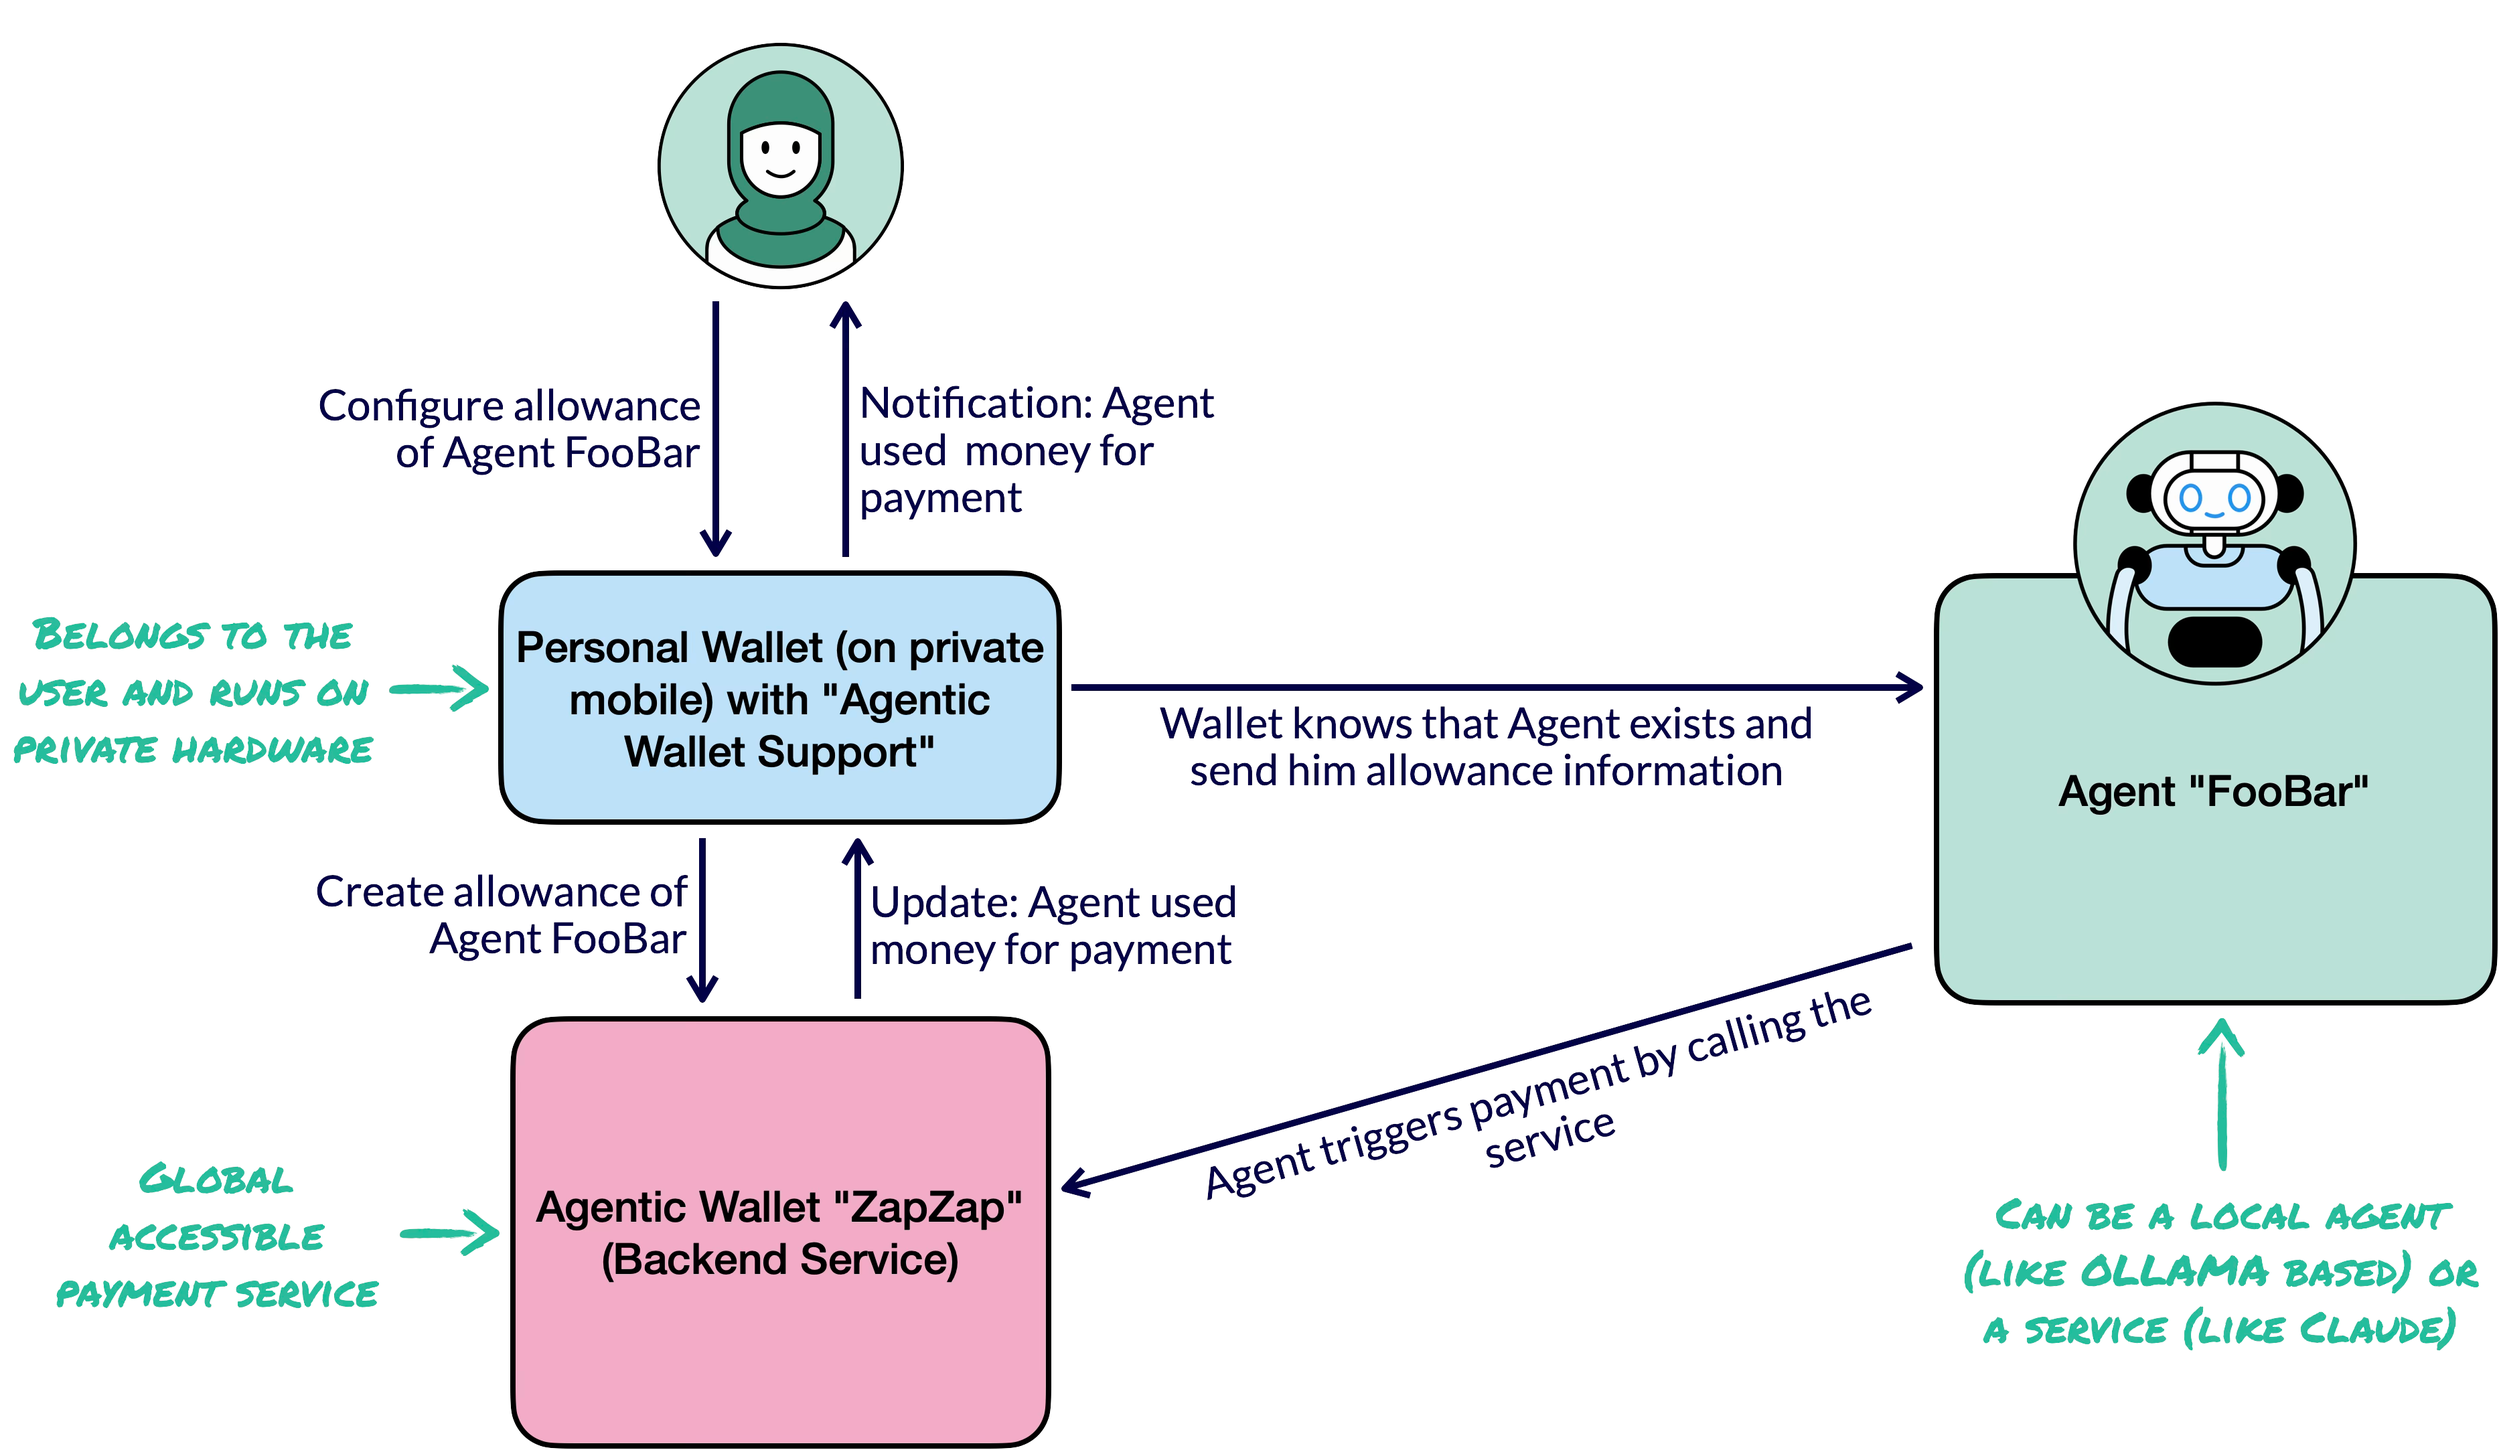
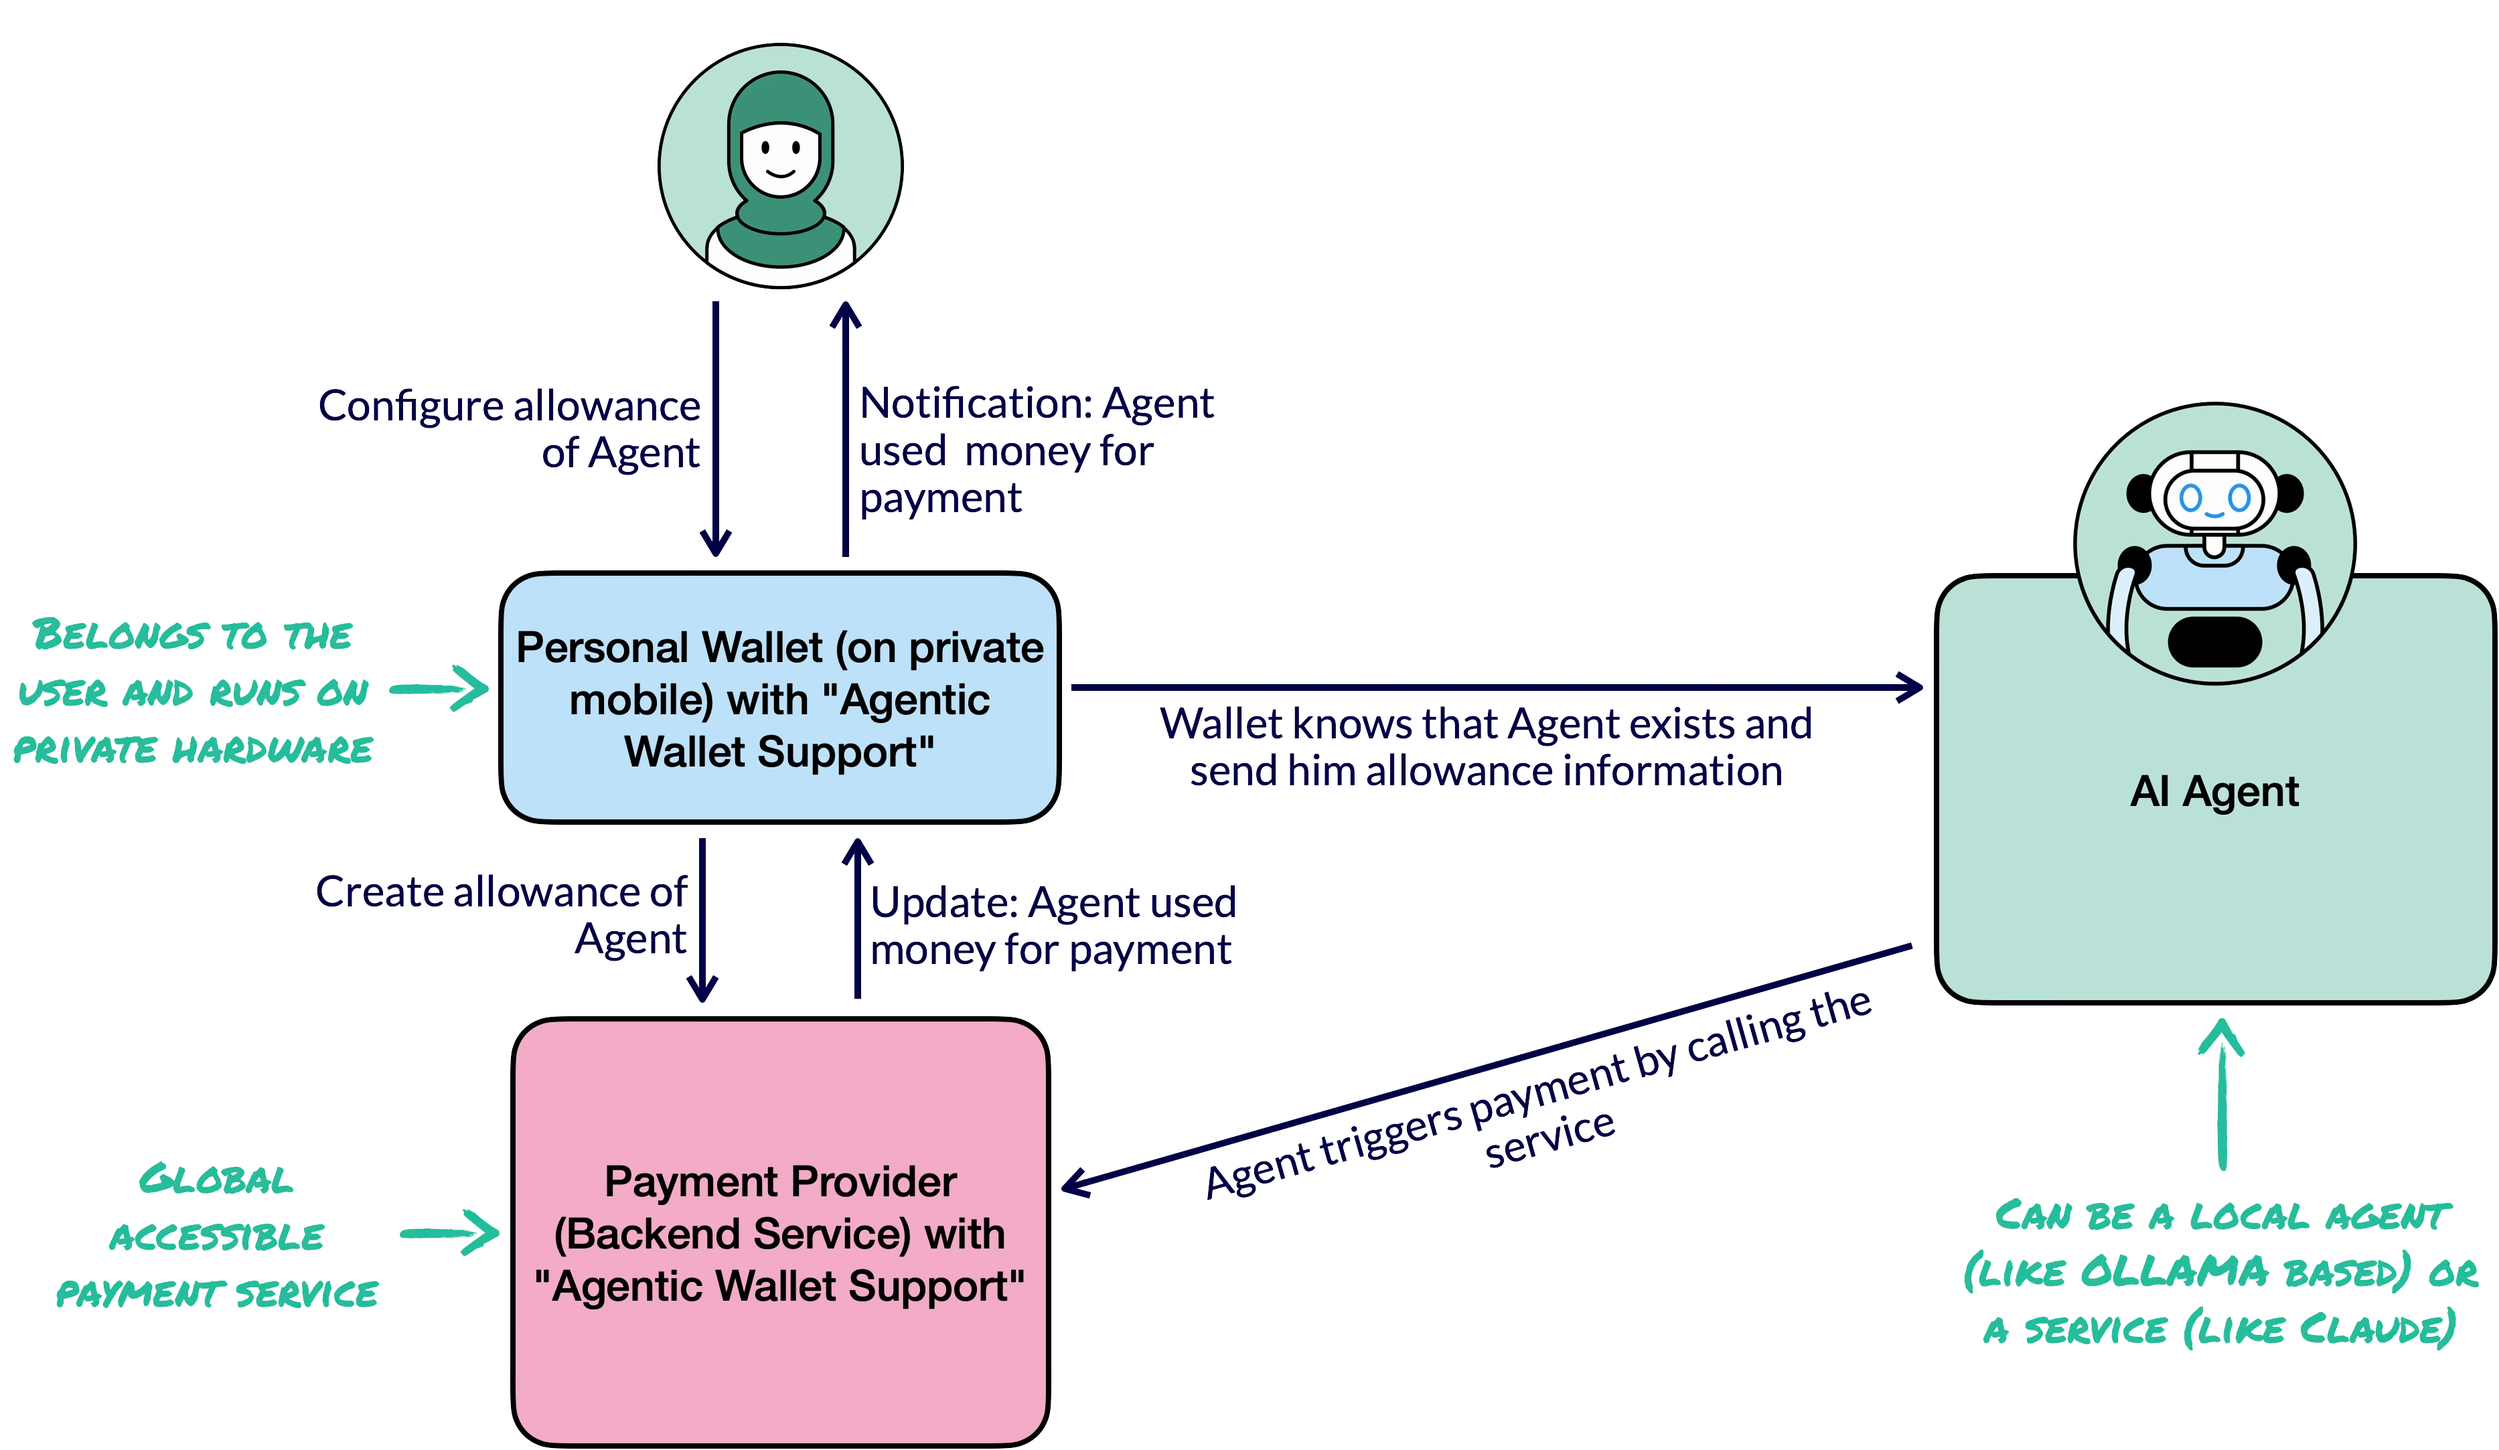
update image source and alt text for agentic wallet flow illustration

diff --git a/content/posts/2026-03-12-agentic-wallets.md b/content/posts/2026-03-12-agentic-wallets.md
@@ -119,7 +119,7 @@ In an agentic wallet, the client is just a window into a server-side system that
 
 Here is the complete flow for setting up and using an agentic wallet:
 
-{{< centered-image src="/posts/2026-03-12-agentic-wallets/wallet-flow.svg" width="100%" alt="Complete agentic wallet flow: human configures wallet, agent generates key, wallet registers key on-chain, agent pays via MCP server">}}
+{{< centered-image src="/posts/2026-03-12-agentic-wallets/basic-flow.png" width="100%" alt="Complete agentic wallet flow: human configures wallet, agent generates key, payment provider registers key, agent pays">}}
 
 **Setup phase:**
 
